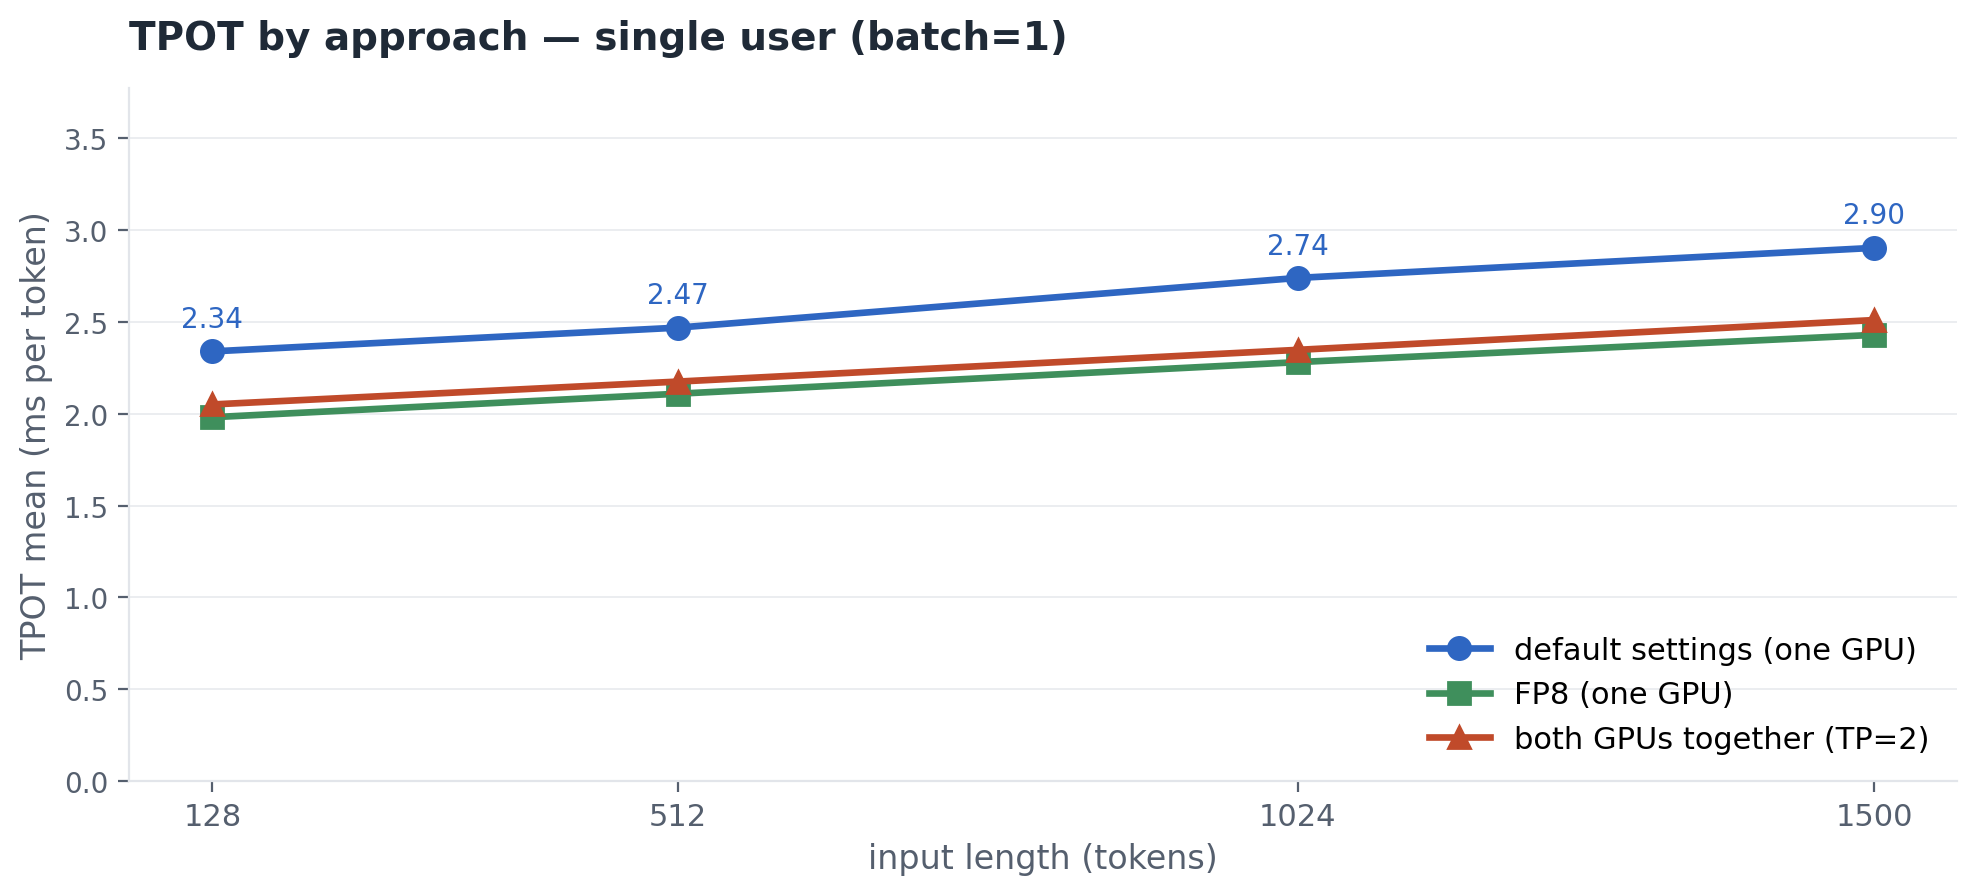
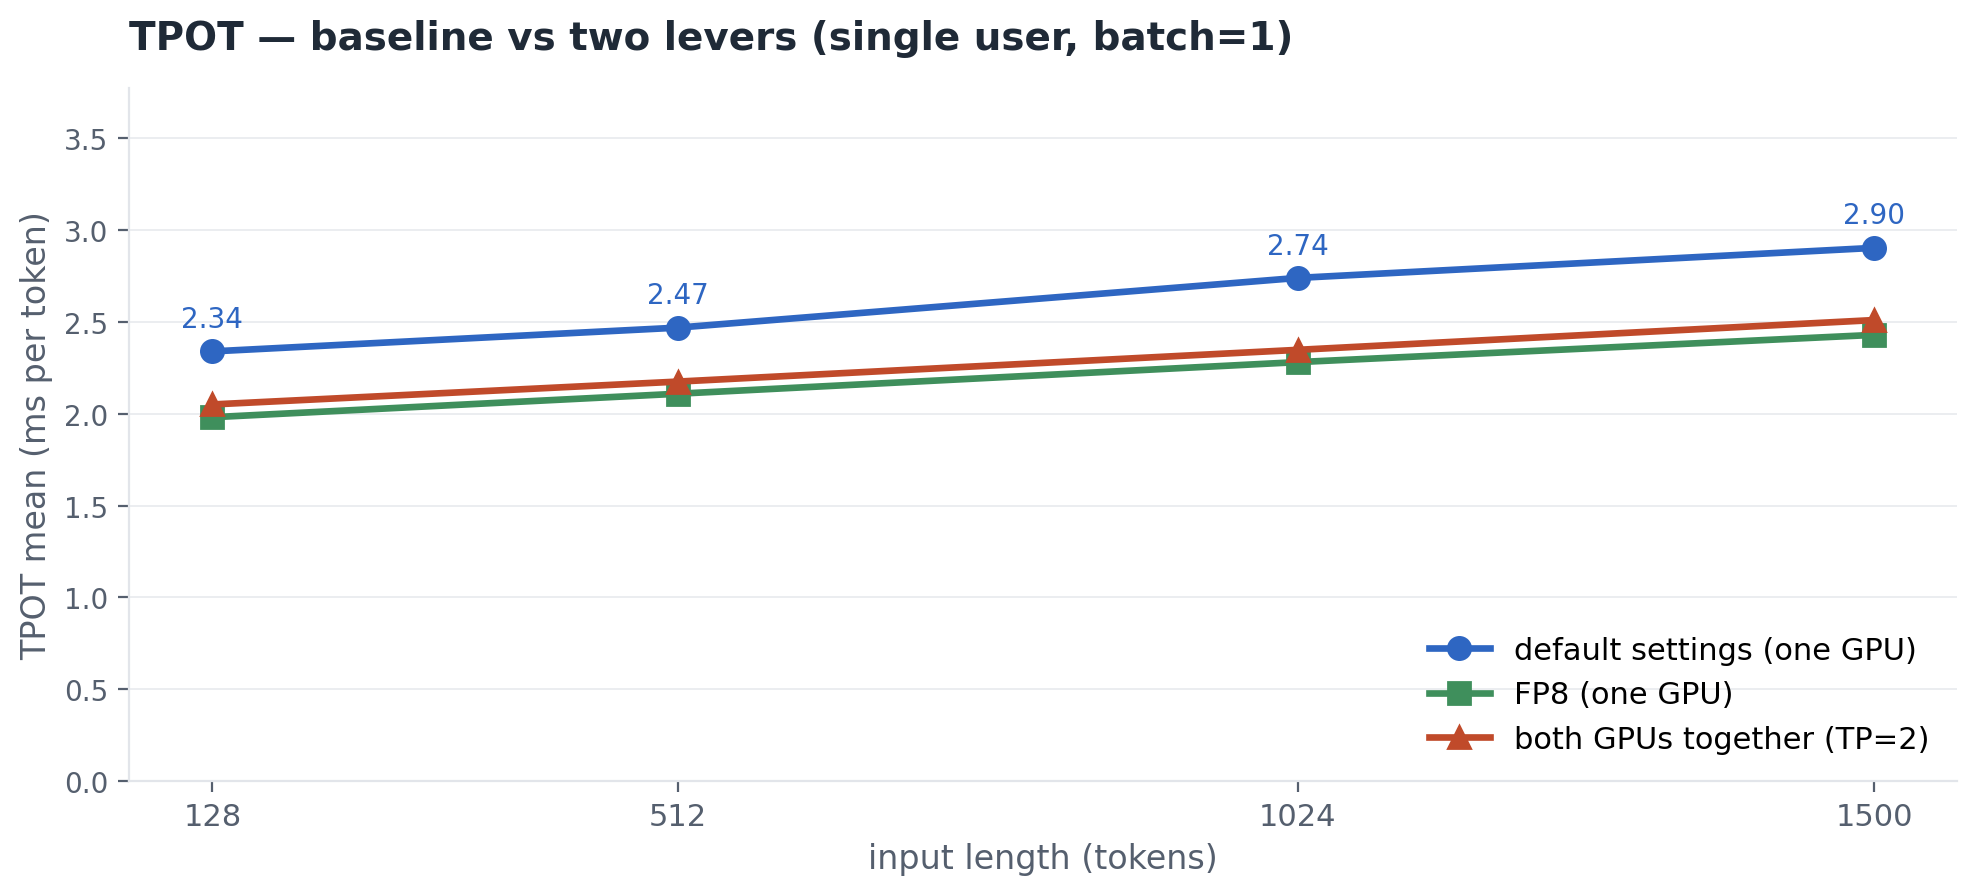
deck changes

Changed region(s): [[0.1234, 0.0302, 0.6788, 0.0603]]

diff --git a/scripts/plots/appendix.py b/scripts/plots/appendix.py
@@ -159,7 +159,7 @@ def ttft_vs_length() -> Path:
     _style(ax,
            ylabel="TTFT mean (ms)",
            xlabel="input length (tokens)",
-           title="TTFT by approach — single user")
+           title="TTFT — baseline vs two levers (single user, batch=1)")
 
     fig.tight_layout()
     out = OUT / "appendix_ttft_vs_length.png"
@@ -205,7 +205,7 @@ def tpot_vs_length() -> Path:
     _style(ax,
            ylabel="TPOT mean (ms per token)",
            xlabel="input length (tokens)",
-           title="TPOT by approach — single user (batch=1)")
+           title="TPOT — baseline vs two levers (single user, batch=1)")
 
     fig.tight_layout()
     out = OUT / "appendix_tpot_vs_length.png"
@@ -275,6 +275,109 @@ def batching_pareto() -> Path:
     fig.savefig(out, dpi=200, bbox_inches="tight", facecolor="white")
     plt.close(fig)
     return out
+
+
+def _sla_verdict_chart(metric: str, threshold: float, threshold_unit: str,
+                        out_name: str, title: str,
+                        ylabel: str, prefix_note: str) -> Path:
+    """Shared helper: one SLA verdict chart for a single metric (TTFT/TPOT/e2e).
+
+    metric: key in derive_tpot's per-L dict (e.g. 'ttft_p90_ms', 'tpot_mean_ms',
+            'end_to_end_mean_ms').
+    threshold: SLA value in ms.
+    """
+    bf = numbers.derive_tpot(numbers.latency_grid("baseline"))
+    fp = numbers.derive_tpot(numbers.latency_grid("fp8"))
+    tp = numbers.derive_tpot(numbers.latency_grid("baseline_tp2"))
+
+    Ls = sorted(bf.keys())
+    bf_y = [bf[L][metric] for L in Ls]
+    fp_y = [fp[L][metric] for L in Ls if L in fp]
+    tp_y = [tp[L][metric] for L in Ls if L in tp]
+
+    fig, ax = plt.subplots(figsize=(10, 4.6))
+    fig.patch.set_facecolor("white")
+
+    max_y = max(max(bf_y), max(fp_y), max(tp_y), threshold) * 1.20
+
+    # Shaded fail region
+    ax.axhspan(threshold, max_y, color="#FBE9E1", alpha=0.7, zorder=0)
+
+    # Threshold line
+    ax.axhline(threshold, color=WARN, linewidth=1.6, linestyle="--", zorder=1)
+    ax.text(Ls[-1], threshold + max_y * 0.015,
+            f"  SLA: {threshold_unit}  ",
+            ha="right", va="bottom",
+            fontsize=10, color=WARN, fontweight="bold")
+
+    # Three lever lines
+    ax.plot(Ls, bf_y, "-o", color=ACCENT, linewidth=2.4, markersize=8,
+            label="default (one GPU)", zorder=3)
+    ax.plot(Ls, fp_y, "-s", color=GREEN, linewidth=2.4, markersize=8,
+            label="FP8 (one GPU)", zorder=3)
+    ax.plot(Ls, tp_y, "-^", color=WARN, linewidth=2.4, markersize=8,
+            label="TP=2 (both GPUs)", zorder=3)
+
+    # Prefix caching annotation in clear whitespace
+    ax.text(0.02, 0.98, prefix_note,
+            transform=ax.transAxes,
+            ha="left", va="top",
+            fontsize=10, color=SUBTLE, style="italic",
+            bbox=dict(boxstyle="round,pad=0.4",
+                      facecolor="white", edgecolor=RULE, linewidth=1.0))
+
+    ax.set_xticks(Ls)
+    ax.set_xticklabels([str(L) for L in Ls], fontsize=11, color=INK)
+    ax.set_ylim(0, max_y)
+    ax.legend(loc="lower right", frameon=False, fontsize=11)
+    _style(ax,
+           ylabel=ylabel,
+           xlabel="input length (tokens)",
+           title=title)
+
+    fig.tight_layout()
+    out = OUT / out_name
+    fig.savefig(out, dpi=200, bbox_inches="tight", facecolor="white")
+    plt.close(fig)
+    return out
+
+
+def sla_verdict_ttft() -> Path:
+    return _sla_verdict_chart(
+        metric="ttft_p90_ms",
+        threshold=15.0,
+        threshold_unit="TTFT < 15 ms (p90)",
+        out_name="appendix_sla_verdict_ttft.png",
+        title="SLA verdict — TTFT (p90)",
+        ylabel="TTFT p90 (ms)",
+        prefix_note=("+ prefix caching: −40% TTFT on shared prompts\n"
+                     "(measured separately, slide 11)"),
+    )
+
+
+def sla_verdict_tpot() -> Path:
+    return _sla_verdict_chart(
+        metric="tpot_mean_ms",
+        threshold=2.5,
+        threshold_unit="TPOT < 2.5 ms",
+        out_name="appendix_sla_verdict_tpot.png",
+        title="SLA verdict — TPOT (mean)",
+        ylabel="TPOT mean (ms per token)",
+        prefix_note="prefix caching only affects TTFT, not TPOT",
+    )
+
+
+def sla_verdict_e2e() -> Path:
+    return _sla_verdict_chart(
+        metric="end_to_end_mean_ms",
+        threshold=500.0,
+        threshold_unit="end-to-end < 500 ms (200-token response)",
+        out_name="appendix_sla_verdict_e2e.png",
+        title="SLA verdict — end-to-end",
+        ylabel="end-to-end latency, 200 tokens out (ms)",
+        prefix_note=("+ prefix caching: shaves up to 21 ms TTFT off long\n"
+                     "shared prompts, lowering e2e here too"),
+    )
 
 
 def sla_status() -> Path:
@@ -440,7 +543,9 @@ def main() -> None:
         ttft_vs_length(),
         tpot_vs_length(),
         batching_pareto(),
-        sla_status(),
+        sla_verdict_ttft(),
+        sla_verdict_tpot(),
+        sla_verdict_e2e(),
         prefix_caching(),
         flop_math(),
     ]